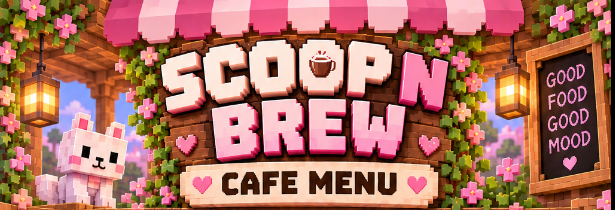
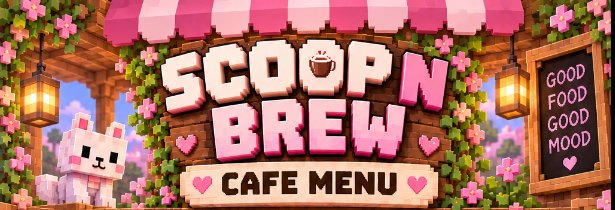
revised stall day 2.0

diff --git a/index.html b/index.html
@@ -446,38 +446,24 @@
             <!-- SCREEN 1: STORE FRONT & MENU SECTION -->
             <!-- ═══════════════════════════════════════════════════════════════ -->
             <section id="homeSection" class="relative">
-                <!-- Hero Photo Banner -->
-                <div class="relative h-60 w-full overflow-hidden bg-slate-900">
-                    <img id="heroBannerImg" src="./assets/images/scoop-n-brew/scoop-n-brew-header-banner.png"
-                        alt="Scoop n Brew Ice Cream & Treats"
-                        class="w-full h-full object-cover opacity-90 scale-105 hover:scale-100 transition-transform duration-700">
-                    <div class="absolute inset-0 bg-gradient-to-t from-slate-950/80 via-transparent to-black/30"></div>
-
-                    <!-- Good Food Good Vibes Handwriting Badge -->
-                    <!-- <div id="heroHandwriting"
-                        class="absolute top-4 right-4 text-amber-300 font-script text-2xl drop-shadow-md rotate-[-8deg] pointer-events-none select-none">
-                        Good Food<br>&nbsp;&nbsp;Good Vibes ✨
-                    </div> -->
-
-                    <div class="absolute top-4 left-4">
-                        <span id="heroCategoryBadge"
-                            class="px-2.5 py-1 rounded-full bg-black/40 backdrop-blur-md text-white text-[10px] font-bold border border-white/20">
-                            🍨 Waffles, Hocco Ice Cream & Shakes
-                        </span>
-                    </div>
+                <!-- Hero Photo Banner (Strictly Using Uploaded Scoop n Brew Banner) -->
+                <div class="relative w-full overflow-hidden bg-slate-900">
+                    <img id="heroBannerImg" src="./assets/images/scoop-n-brew/scoop-n-brew-top-banner.jpg"
+                        alt="Scoop n Brew Cafe Menu Banner"
+                        class="w-full h-auto block object-contain">
                 </div>
 
                 <!-- Main Store Card -->
                 <div
-                    class="relative -mt-10 mx-3 bg-white rounded-3xl p-5 shadow-xl shadow-slate-200/50 border border-slate-100 text-center">
-                    <!-- Overlapping Round Logo -->
-                    <div class="relative -mt-16 mb-2 inline-block">
+                    class="relative mt-3 mx-3 bg-white rounded-3xl p-5 shadow-xl shadow-slate-200/50 border border-slate-100 text-center">
+                    <!-- Store Round Logo -->
+                    <div class="relative mb-2 inline-block">
                         <div
-                            class="w-20 h-20 rounded-full border-4 border-white shadow-xl overflow-hidden bg-white flex items-center justify-center">
+                            class="w-16 h-16 rounded-full border-4 border-pink-50 shadow-lg overflow-hidden bg-white flex items-center justify-center">
                             <img id="storeLogoImg" src="./assets/images/scoop-n-brew/scoop-n-brew-logo.png" alt="Scoop n Brew Logo" class="w-full h-full object-cover rounded-full">
                         </div>
                         <span
-                            class="absolute bottom-1 right-1 w-5 h-5 rounded-full bg-emerald-500 text-white flex items-center justify-center text-[10px] border-2 border-white shadow"
+                            class="absolute bottom-0.5 right-0.5 w-5 h-5 rounded-full bg-emerald-500 text-white flex items-center justify-center text-[10px] border-2 border-white shadow"
                             title="Verified Google Business">
                             ✓
                         </span>

diff --git a/js/data.js b/js/data.js
@@ -18,7 +18,7 @@ export const DEFAULT_STORE_DATA = {
         categoryBadge: '🍨 Waffles, Hocco Ice Cream & Shakes',
         heroHandwriting: 'Good Food Brings\nPeople Together ✨',
         logoImg: './assets/images/scoop-n-brew/scoop-n-brew-logo.png',
-        heroImg: './assets/images/scoop-n-brew/Scoop-n-Brew-Café-Badge.png',
+        heroImg: './assets/images/scoop-n-brew/scoop-n-brew-top-banner.jpg',
         rating: 4.9,
         ratingStars: '★★★★★',
         ratingCountText: '850+ Google Reviews',
@@ -258,7 +258,7 @@ export const DEFAULT_STORE_DATA = {
     }
 };
 
-const STORAGE_KEY = 'scoopnbrew_store_data_v3';
+const STORAGE_KEY = 'scoopnbrew_store_data_v4';
 
 export function getStoreData() {
     try {
@@ -266,6 +266,9 @@ export function getStoreData() {
         if (stored) {
             const parsed = JSON.parse(stored);
             parsed.reviewBank = REVIEWS_DB;
+            if (parsed.brand) {
+                parsed.brand.heroImg = './assets/images/scoop-n-brew/scoop-n-brew-top-banner.jpg';
+            }
             return parsed;
         }
     } catch (e) {

diff --git a/js/dev-editor.js b/js/dev-editor.js
@@ -73,12 +73,15 @@ class DeveloperEditor {
         this.renderWelcomeModal();
 
         // 1. Header & Brand
-        this.setText('storeBrandInitials', d.brand.initials);
+        const initialsEl = document.getElementById('storeBrandInitials');
+        if (initialsEl && !initialsEl.querySelector('img')) {
+            this.setText('storeBrandInitials', d.brand.initials);
+        }
         this.setText('storeHeaderName', d.brand.name);
         this.setText('storeStatusBadge', d.brand.statusBadge);
 
         // 2. Hero & Identity
-        this.setImg('heroBannerImg', d.brand.heroImg, d.brand.name);
+        this.setImg('heroBannerImg', './assets/images/scoop-n-brew/scoop-n-brew-top-banner.jpg', d.brand.name);
         this.setImg('storeLogoImg', d.brand.logoImg, d.brand.name + ' Logo');
         this.setText('heroCategoryBadge', d.brand.categoryBadge);
         this.setText('storeMainName', d.brand.name);
